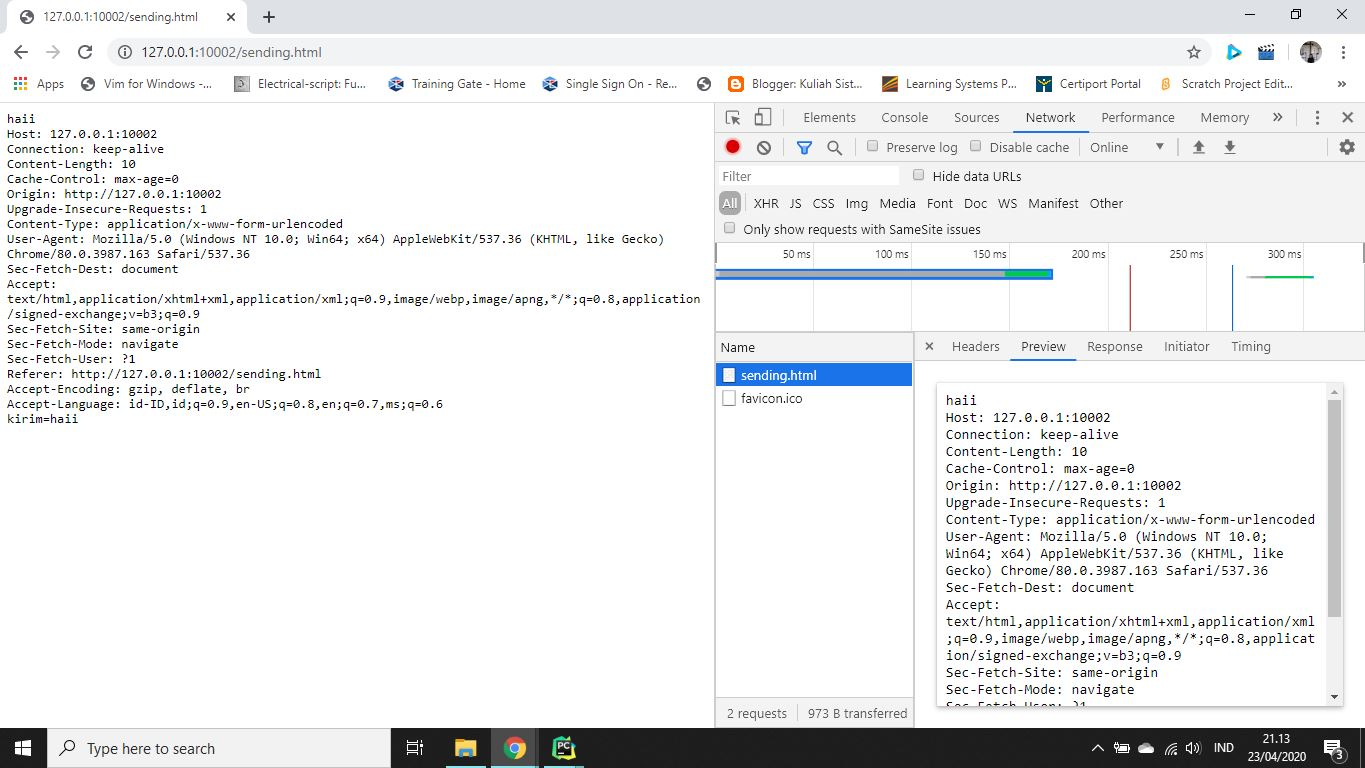
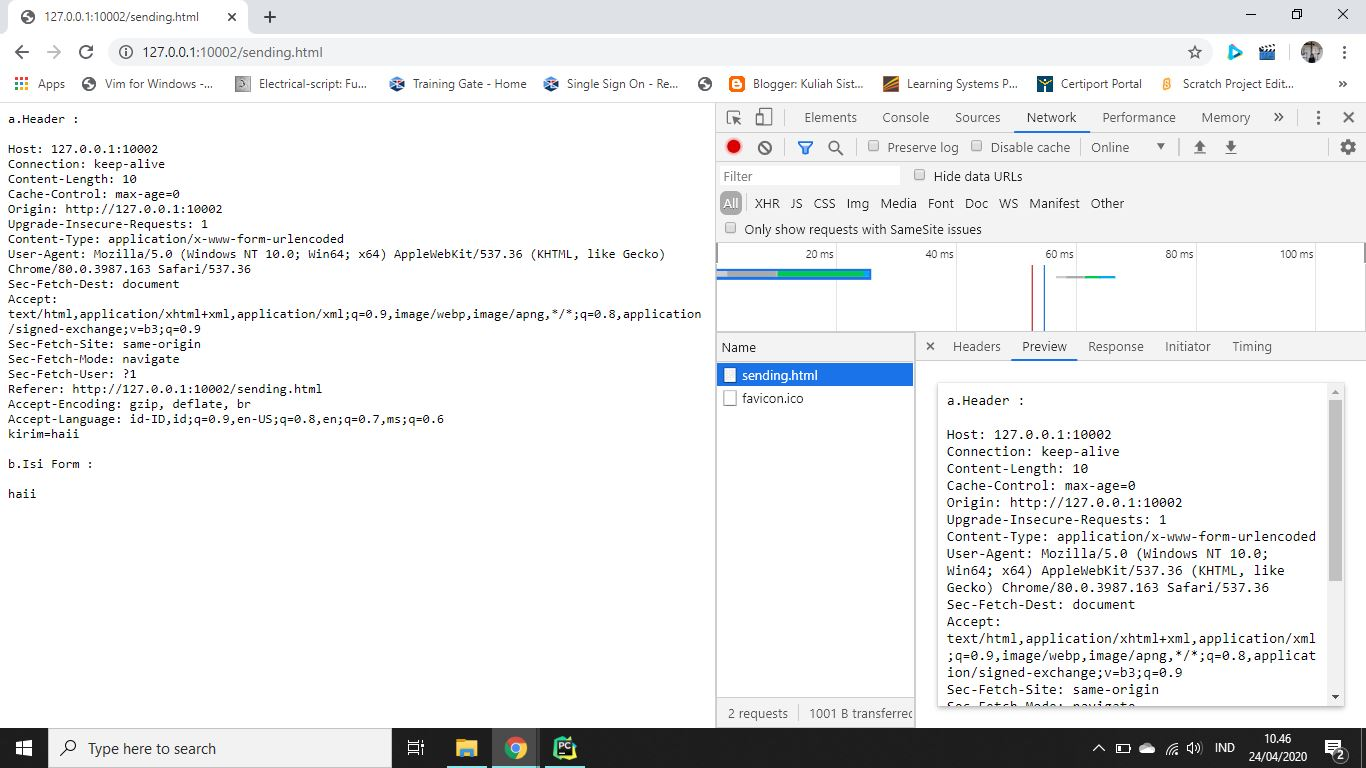
update

diff --git a/tugas8/http.py b/tugas8/http.py
@@ -42,10 +42,10 @@ class HttpServer:
 				object_address = j[1].strip()
 				return self.http_get(object_address, all_headers)
 			if (method=='POST'):
-				lineform = requests[18].split("=")
-				isiform = lineform[1]
+				line_form = requests[18].split("=")
+				isi_form = line_form[1]
 				object_address = j[1].strip()
-				return self.http_post(object_address, all_headers,isiform)
+				return self.http_post(object_address, all_headers,isi_form)
 			else:
 				return self.response(400,'Bad Request','',{})
 		except IndexError:
@@ -62,12 +62,12 @@ class HttpServer:
 		headers['Content-type']= "text/html"
 		return self.response(200,'OK',isi,headers)
 
-	def http_post(self,object_address,headers,isiform):
+	def http_post(self,object_address,headers,isi_form):
 		head = headers
 		headers ={}
 		# isi = "kosong"
 		k ="\n"
 		for atribut in head:
 		    k = k+atribut+"\n"
-		isi = isiform+k
+		isi = "a.Header : \n" + k + "\nb.Isi Form : \n\n" + isi_form
 		return self.response(200,'OK',isi,headers)

diff --git a/tugas8/README.md b/tugas8/README.md
@@ -9,7 +9,7 @@ Sebelum program dimodifikasi, saat kita membuka http://127.0.0.1:10002/sending.h
 
 #
 ## Sesudah Modifikasi
-Sesudah program dimodifikasi, saat kita membuka http://127.0.0.1:10002/sending.html dan mengisi sesuatu lalu mengirimnya, hasil atau output yang kita dapat adalah sesuatu yang kita isikan sebelumnya beserta semua header yang dikirim dari browser seperti berikut ini
+Sesudah program dimodifikasi, saat kita membuka http://127.0.0.1:10002/sending.html dan mengisi sesuatu lalu mengirimnya, hasil atau output yang kita dapat adalah semua header yang dikirim dari browser beserta sesuatu yang kita isikan sebelumnya (isi form) seperti berikut ini
 
 ![alt text](Capture/sesudah_input.JPG)
 
